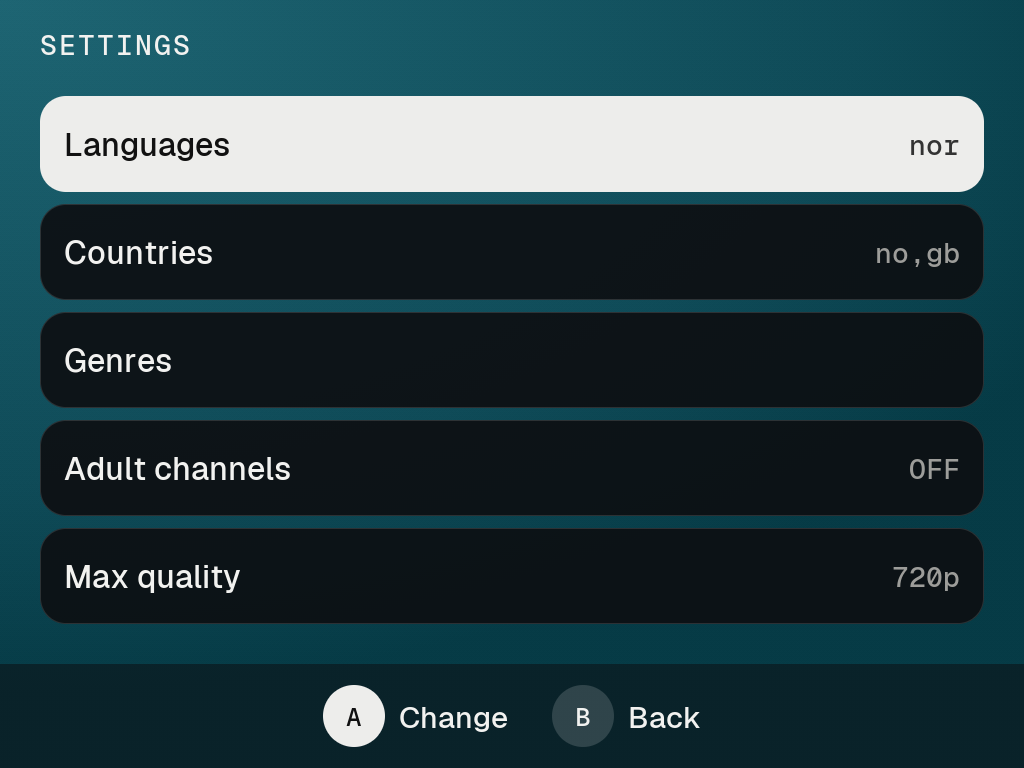
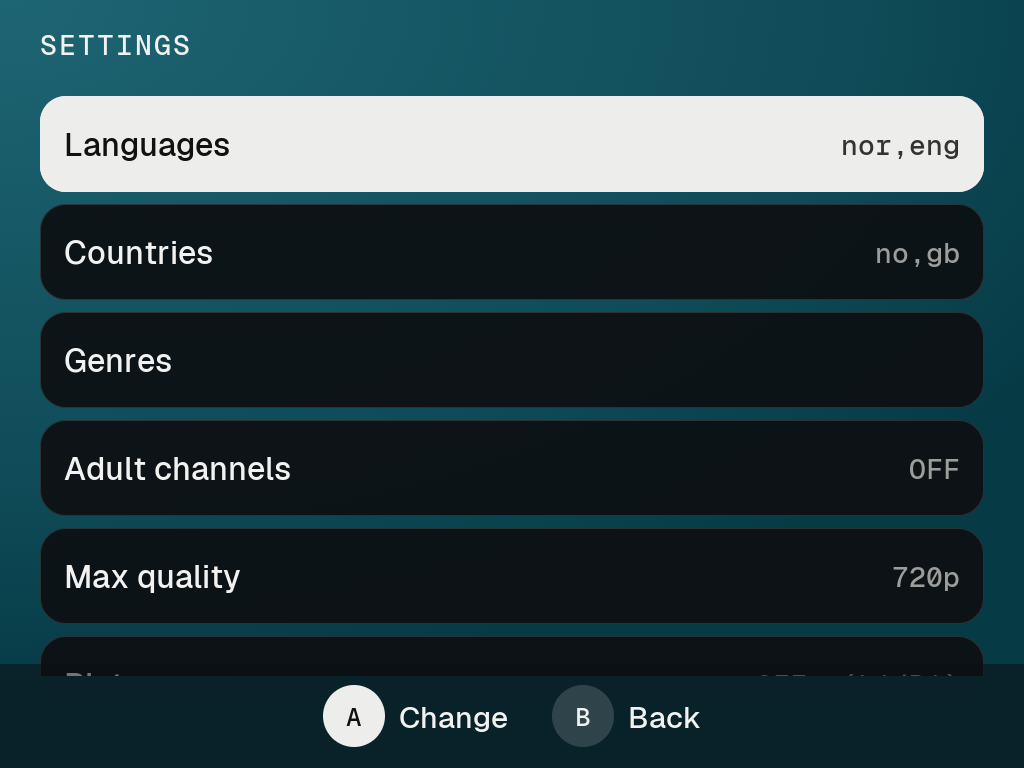
README and pak.json: screenshots in the new look (the next row peeking out, the channel info as a band, Settings with Your playlists) and of the audio and subtitles picker; what's new: the channel info sliding up, a card while tuning in, the picker, subtitles (WebVTT, closed captions, DVB), sound an

Changed region(s): [[0.0312, 0.8125, 0.9688, 0.875], [0.8125, 0.1875, 0.9375, 0.2188]]

diff --git a/README.md b/README.md
@@ -12,17 +12,26 @@ Musicdisk and Tuner.
   your own XMLTV or your Xtream provider.
 - **Favourites and history:** Favourites, Most watched and Recently watched fill the front page as you watch. Search
   covers every channel.
-- **Watching:** the channel you rest on in a list tunes in behind the menu. A banner shows what's on, how far in, and
-  what's next. Snow over the programme's picture while a channel connects, the time in dots on long waits, and a
+- **Watching:** the channel you rest on in a list tunes in behind the menu. The channel info slides up from the bottom
+  of the screen with what's on, how far in, and what's next, and fades to the new channel's when you zap. Snow over
+  the programme's picture while a channel connects, a card in the middle while it tunes in or buffers, and a
   plain-words message when a channel can't be played.
-- **Audio tracks:** on channels with several (often marked MULTI), Tuner picks the one in your languages. LEFT/RIGHT
-  switches, and your choice is remembered per channel.
+- **Audio and subtitles:** LEFT/RIGHT while watching opens a picker with a switch between Audio and Subtitles. Tuner
+  starts in your languages, and what you pick is remembered per channel. Switching audio track picks up where you
+  are, without a jump.
+- **Subtitles of three kinds:** WebVTT tracks beside HLS streams (Pluto TV has them on many channels), closed
+  captions carried in the picture (CEA-608, US channels), and DVB subtitles (European broadcasts).
+- **In step:** sound and picture stay together through ad breaks and Wi-Fi hiccups: a few seconds are read ahead,
+  ad splices are joined, and when the stream runs dry both pause and go on together.
+- **The right shape:** 4:3 and 16:9 as the channel sends them, also standard-definition channels (720×576, 720×480),
+  which carry their shape in the picture, with hardware decoding.
 - **Hardware decoding:** H.264 and H.265 run on the Brick's video engine, about a fifth of one CPU core where
   software decoding takes three.
 - **Stats for nerds** (SELECT while watching): codec, size and frame rates, dropped frames, A/V sync, bitrate and
   quality steps, CPU, temperature and Wi-Fi.
 - **Also:** channel logos, scanline and CRT picture overlays, a sleep timer, an adult PIN, and the volume shown when
-  you change it. Tuner starts on the channel you watched last.
+  you change it. Lists slide as you move, and the next row peeks out at the bottom when there's more. Tuner starts on
+  the channel you watched last.
 
 ## Screenshots
 
@@ -32,9 +41,10 @@ Musicdisk and Tuner.
 | ![Channel info over the picture: what's on, how far in, and what's next](.github/resources/screenshots/banner.png) | ![All channels with logos](.github/resources/screenshots/list.png) |
 | ![Channels by genre](.github/resources/screenshots/genres.png) | ![Search with the on-screen keyboard](.github/resources/screenshots/search-keyboard.png) |
 | ![Settings](.github/resources/screenshots/settings.png) | ![Setup, step 3 of 4: countries](.github/resources/screenshots/setup.png) |
+| ![Audio and subtitles while watching: a switch between the two, the one in use with a cyan dot](.github/resources/screenshots/picker.png) | |
 
-Taken with Tuner's screenshot mode, so no channel is playing: the channel info sits on the waiting screen and the
-menus on Tuner's teal ground. On the device the live channel plays behind both.
+Taken with Tuner's screenshot mode, so no channel is playing: the channel info and the picker sit on the waiting
+screen and the menus on Tuner's teal ground. On the device the live channel plays behind them.
 
 Tested on the Brick and the Smart Pro; each gets the layout for its own screen, and on the Smart Pro 16:9 channels
 fill the screen. On the Smart Pro:
@@ -64,7 +74,7 @@ are kept in `.userdata/tg5040/Tuner/` and survive the update.
 
 | Button | In the menus | Watching |
 |---|---|---|
-| D-pad | Move (left/right: page) | Up/down: change channel. Left/right: audio track |
+| D-pad | Move (left/right: page) | Up/down: change channel. Left/right: audio and subtitles |
 | A | Open / watch | Show or hide the channel info |
 | B | Back (on the front page: back to the channel) | Back to the menu |
 | Y | Favourite | Favourite |
@@ -75,7 +85,8 @@ are kept in `.userdata/tg5040/Tuner/` and survive the update.
 | SELECT | | Stats for nerds |
 | MENU | Quit | Quit |
 
-The front page scrolls: the Guide, My channels, Search and Settings are further down. In Search, A types a letter,
+In the audio and subtitles picker, UP/DOWN picks (at once), LEFT/RIGHT switches between Audio and Subtitles, and B
+closes it. The front page scrolls: the Guide, My channels, Search and Settings are further down. In Search, A types a letter,
 Y or X deletes one, and START searches. In the first-time setup, START goes to the next step.
 
 ## Settings
@@ -90,10 +101,13 @@ Y or X deletes one, and START searches. In the first-time setup, START goes to t
 - **Sleep timer:** 30, 60, 90 or 120 minutes, with a warning a minute before.
 - **Adult channels** and **Adult PIN**.
 - **Show hidden channels again:** the ones you hid, and the ones Tuner hid because they had no signal.
-- **Free channels:** OFF uses only your own playlists. **Refresh channels now** reloads everything.
+- **Free channels:** OFF uses only your own playlists. **Your playlists:** OFF uses only the free channels (your
+  playlists stay in `playlists.txt`, just not loaded). They're never both off. **Refresh channels now** reloads
+  everything.
 - **Suggest favourites**, **Hardware decoding**, **My channels order**, and **Run first-time setup again**.
 
-When the stream runs dry, Tuner says Buffering over the frozen picture. When a channel stops, Tuner tries to
+When the stream runs dry, the picture and the sound pause together and Tuner says Buffering; a stream that keeps
+running dry waits a little longer each time, so it plays in longer stretches instead of stuttering. When a channel stops, Tuner tries to
 reconnect it three times (Reconnecting 1/3 on screen). If it still has no signal, it says so and hides the
 channel for a week.
 
@@ -133,6 +147,8 @@ every address in the video library's own error messages is replaced by `[url]`.
 
 - **A channel won't play:** free streams come and go. Try another channel, or Settings > Refresh channels now.
 - **The picture stutters:** check that Settings > Hardware decoding is ON, or lower Max quality.
+- **No subtitles:** not every channel has them, and some providers leave them out of their streams. The picker's
+  Subtitles side lists what the channel has; closed captions show up there once the picture has brought some.
 - **Logs:** `Logs/Tuner.txt` on the SD card. It has no addresses or passwords, so it's safe to attach to an
   [issue](../../issues).
 
@@ -141,7 +157,7 @@ every address in the video library's own error messages is replaced by `[url]`.
 ```sh
 git clone --recursive https://github.com/evolver79/nextui-tuner-pak   # or: git submodule update --init (ui/dot)
 # download ffmpeg-6.1.2.tar.xz from https://ffmpeg.org/releases/ into deps/
-build/build-ffmpeg.sh   # a minimal static ffmpeg 6.1.2 (HLS, MPEG-TS, H.264/H.265, AAC/MP3/AC-3, HTTPS)
+build/build-ffmpeg.sh   # a minimal static ffmpeg 6.1.2 (HLS, MPEG-TS, H.264/H.265, AAC/MP3/AC-3, HTTPS, subtitles)
 build/build-app.sh      # Tuner itself -> build/out/tuner
 ./package.sh            # dist/Tuner.pak.zip
 build/shots.sh          # every page headless into build/out/shots/ (DOT_SCREEN=1280x720: the Smart Pro's)
@@ -149,7 +165,9 @@ build/shots.sh          # every page headless into build/out/shots/ (DOT_SCREEN=
 
 The build scripts need Docker: they build in an ARM64 Debian bullseye container (glibc 2.31, OpenSSL 1.1, like the
 Brick), natively on Apple Silicon. Tuner links the Brick's own SDL2, SDL2_image, SDL2_ttf, OpenSSL and zlib. The
-Brick's ffmpeg has no HLS or HTTPS, hence the static one.
+Brick's ffmpeg has no HLS or HTTPS, hence the static one. It gets one patch (`build/ffmpeg-hls-interleave.patch`):
+HLS playlists are read on their own continuous timelines, so an audio playlist of its own that jumps at an ad splice
+doesn't starve the picture.
 
 Hardware decoding (`src/hwdec.c`) loads Allwinner's CedarC libraries from the Brick's `/usr/lib` at run time; they
 aren't part of this repository or the pak. Its struct layouts follow CedarC 1.3.0 as built for the Brick and were
@@ -160,7 +178,7 @@ Pushing a tag `vX.Y.Z` that matches `version` in `pak.json` makes a GitHub relea
 ## Made with an AI assistant
 
 Built with the help of Claude (Anthropic): the code, build scripts and documentation were written in conversation
-with it, and tested on a real TrimUI Brick.
+with it, and tested on a real TrimUI Brick and Smart Pro.
 
 ## Licences and credits
 
